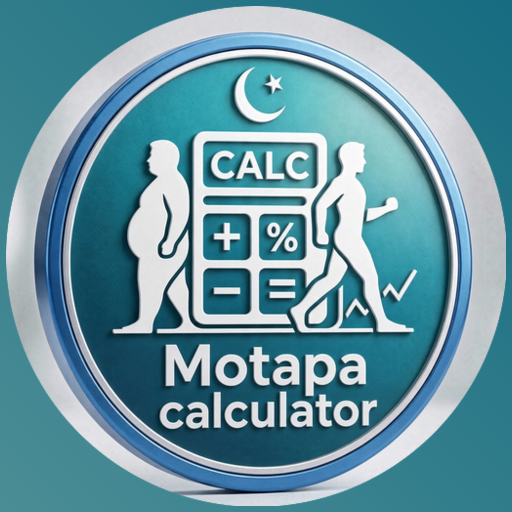
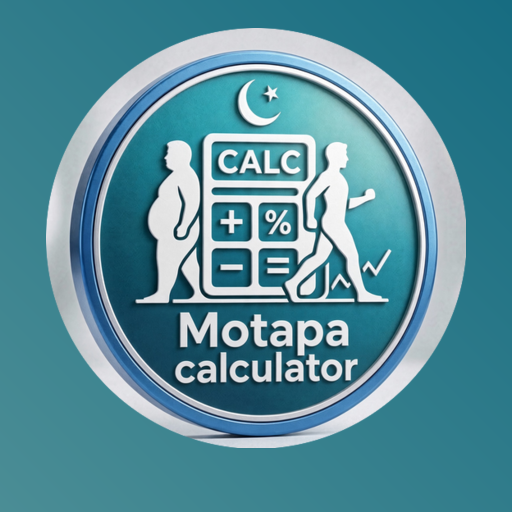
Fix "calculator" text still being cropped on a real device
The real on-device launcher mask cropped more aggressively than the
test simulation accounted for - the actual screenshot showed
"calculator" cut down to "calculat". Scaled the badge down further
(82%, up from 98%) and shifted it up slightly for extra bottom
clearance, keeping the same matching teal-gradient corners. Verified
against a visibly tighter mask simulation than before; the full
wordmark and both figures now survive with real margin to spare.

Claude-Session: https://claude.ai/code/session_01G6TaBz71LFx9rW9f7NKJtL

diff --git a/sw.js b/sw.js
@@ -1,4 +1,4 @@
-const CACHE_NAME = 'motapa-calculator-v6';
+const CACHE_NAME = 'motapa-calculator-v7';
 const APP_SHELL = [
   '/',
   '/index.html',
